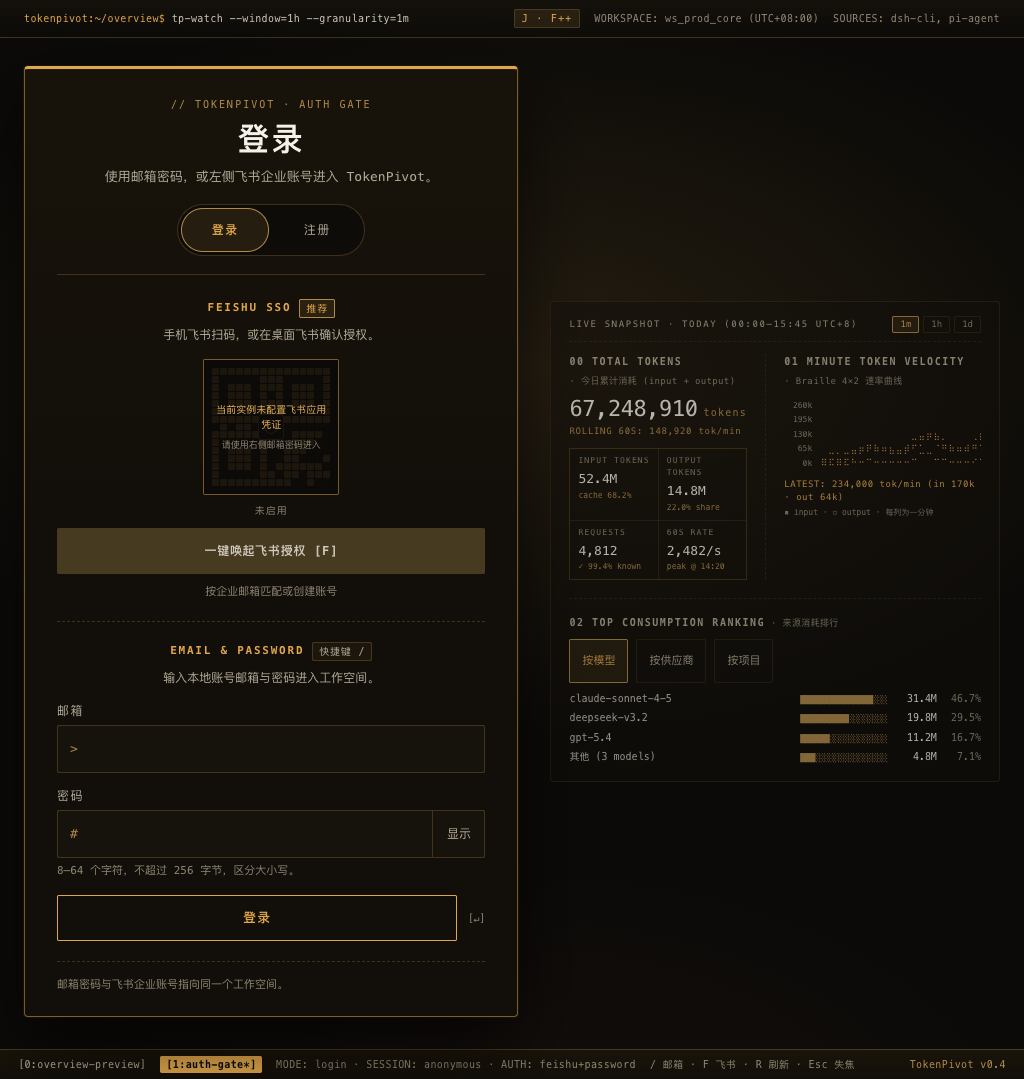
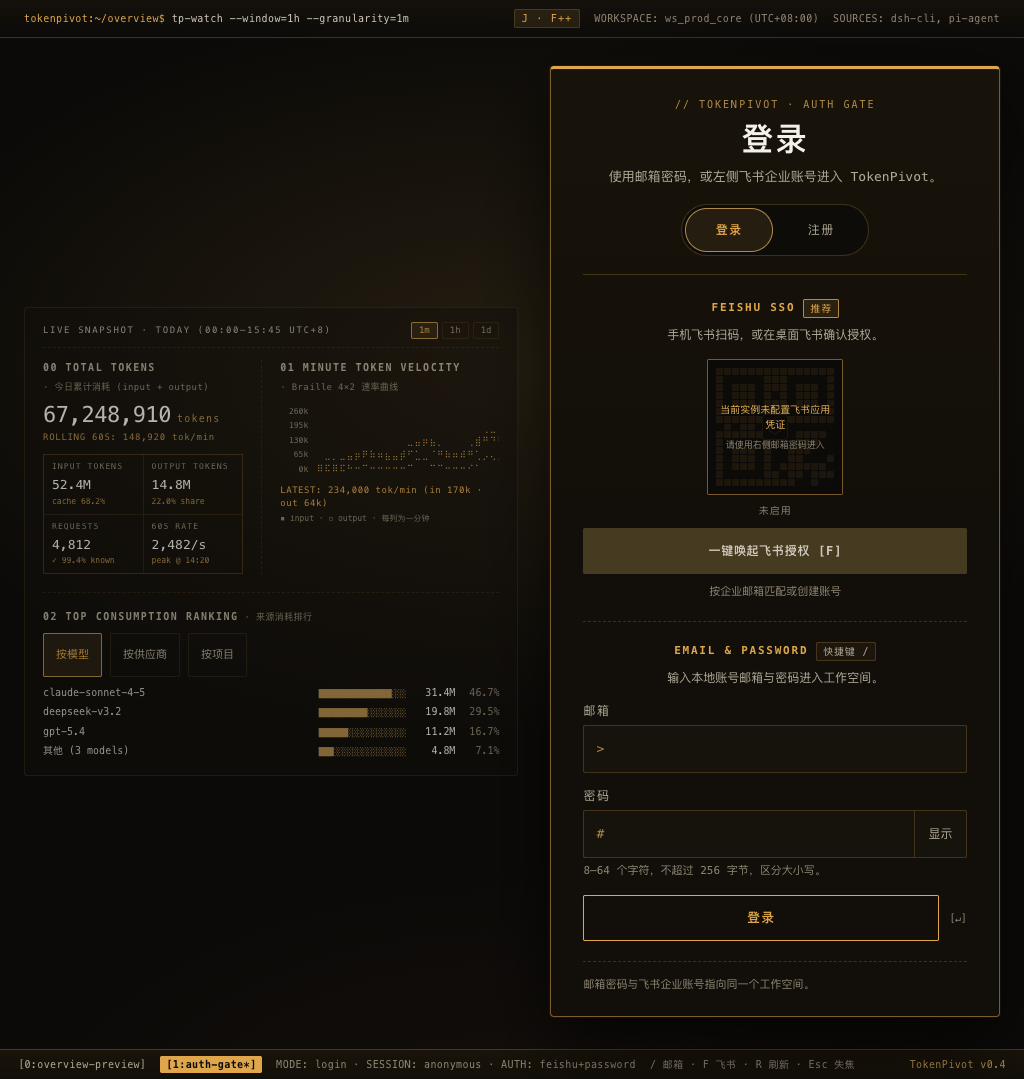
Swap desktop login and telemetry positions

diff --git a/web/src/features/auth/auth-workbench.test.tsx b/web/src/features/auth/auth-workbench.test.tsx
@@ -89,6 +89,19 @@ describe("dashboard snapshot", () => {
     ).toBeUndefined();
   });
 
+  it("places telemetry before the login card in desktop reading order", () => {
+    authorizeEnabled();
+    renderApp("/login");
+
+    const workbench = document.querySelector(".split-workbench");
+    expect(
+      workbench?.firstElementChild?.classList.contains("dash-snapshot"),
+    ).toBe(true);
+    expect(
+      workbench?.lastElementChild?.classList.contains("login-spotlight-wrap"),
+    ).toBe(true);
+  });
+
   it("switches the ranking between model, provider and project", async () => {
     authorizeEnabled();
     renderApp("/login");

diff --git a/web/src/features/auth/geek-auth-workbench.tsx b/web/src/features/auth/geek-auth-workbench.tsx
@@ -37,6 +37,7 @@ export function GeekAuthWorkbench({
 
       <main className="main-stage">
         <div className="split-workbench">
+          <AuthDashboardSnapshot />
           <div className="login-spotlight-wrap">
             <AuthDualCabinCard
               mode={mode}
@@ -47,7 +48,6 @@ export function GeekAuthWorkbench({
               {children}
             </AuthDualCabinCard>
           </div>
-          <AuthDashboardSnapshot />
         </div>
       </main>
 

diff --git a/web/src/features/auth/auth.css b/web/src/features/auth/auth.css
@@ -433,7 +433,7 @@
 .login-spotlight-wrap::before {
   content: "";
   position: absolute;
-  inset: -44px -40px -56px;
+  inset: -44px 0 -56px;
   background: radial-gradient(
     closest-side,
     rgba(224, 166, 75, 0.16),
